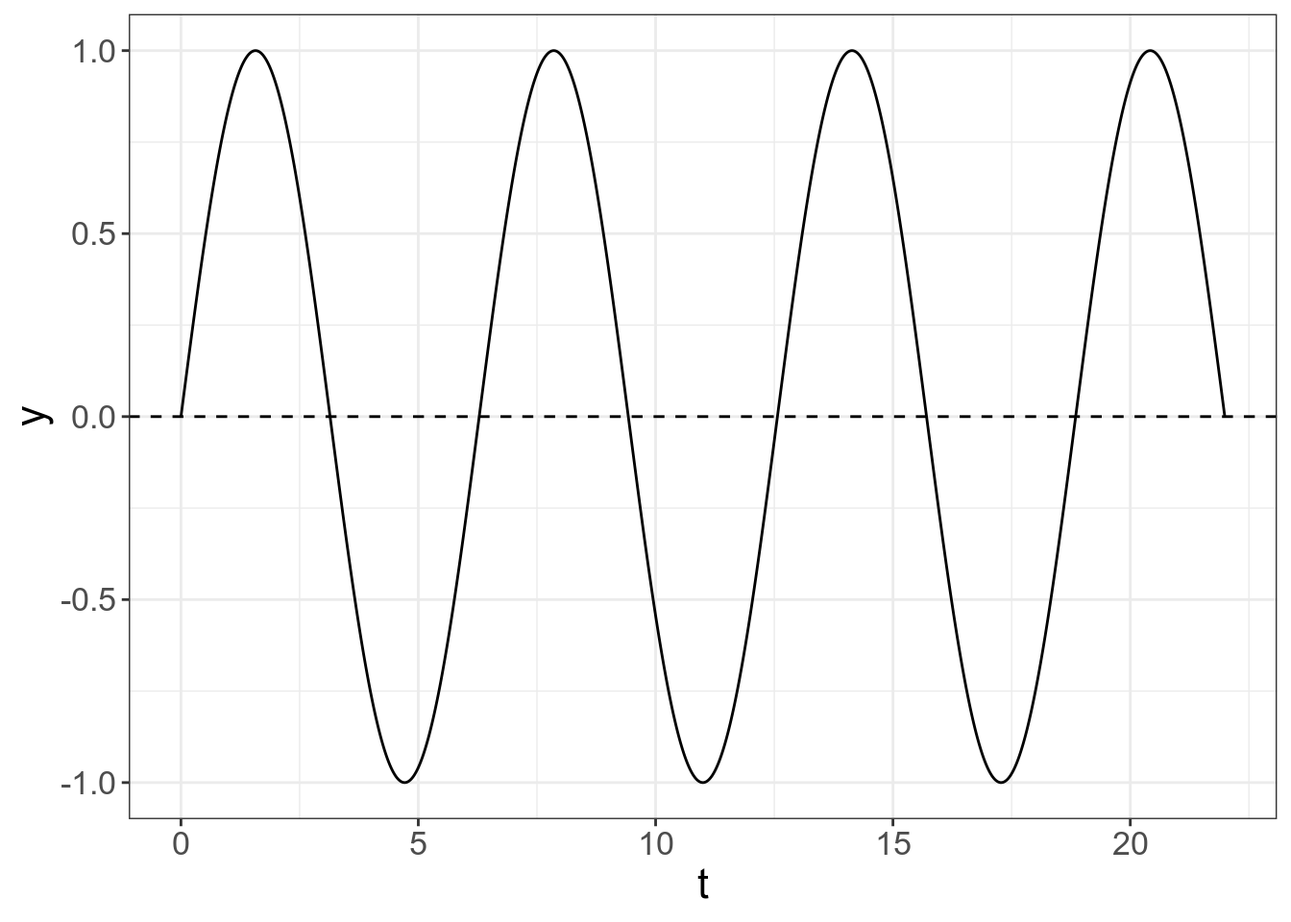
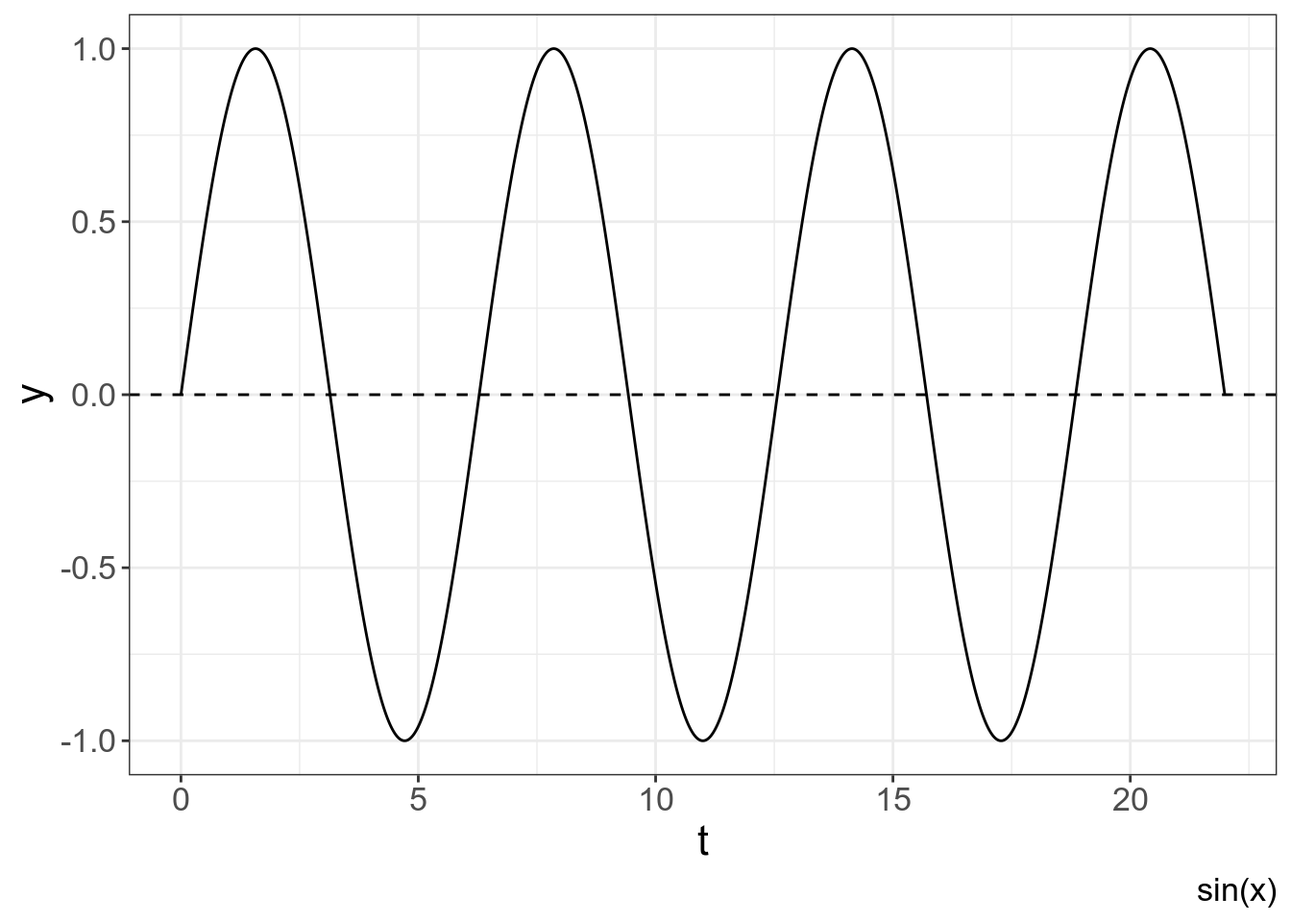
add intro to math

diff --git a/docs/1_math.html b/docs/1_math.html
@@ -535,9 +535,10 @@ div.tocify {
 
 <p>Для тех, кто хочет следить за кодом, вот загруженные библиотеки:</p>
 <div class="sourceCode" id="cb1"><pre class="sourceCode r"><code class="sourceCode r"><span id="cb1-1"><a href="#cb1-1"></a><span class="kw">library</span>(tidyverse)</span>
-<span id="cb1-2"><a href="#cb1-2"></a><span class="co"># это стиль для ggplot (можно игнорировать эту команду)</span></span>
-<span id="cb1-3"><a href="#cb1-3"></a><span class="kw">theme_set</span>(<span class="kw">theme_bw</span>()<span class="op">+</span></span>
-<span id="cb1-4"><a href="#cb1-4"></a><span class="st">            </span><span class="kw">theme</span>(<span class="dt">text =</span> <span class="kw">element_text</span>(<span class="dt">size =</span> <span class="dv">16</span>))) </span></code></pre></div>
+<span id="cb1-2"><a href="#cb1-2"></a><span class="kw">library</span>(gridExtra)</span>
+<span id="cb1-3"><a href="#cb1-3"></a><span class="co"># это стиль для ggplot (можно игнорировать эту команду)</span></span>
+<span id="cb1-4"><a href="#cb1-4"></a><span class="kw">theme_set</span>(<span class="kw">theme_bw</span>()<span class="op">+</span></span>
+<span id="cb1-5"><a href="#cb1-5"></a><span class="st">            </span><span class="kw">theme</span>(<span class="dt">text =</span> <span class="kw">element_text</span>(<span class="dt">size =</span> <span class="dv">16</span>))) </span></code></pre></div>
 <div id="section" class="section level2">
 <h2>1. Гармонические колебания, их представления и их свойства</h2>
 <div id="section-1" class="section level3">
@@ -548,17 +549,19 @@ div.tocify {
 <span id="cb2-2"><a href="#cb2-2"></a>       <span class="dt">y =</span> <span class="kw">sin</span>(t)) <span class="op">%&gt;%</span><span class="st"> </span></span>
 <span id="cb2-3"><a href="#cb2-3"></a><span class="st">  </span><span class="kw">ggplot</span>(<span class="kw">aes</span>(t, y))<span class="op">+</span></span>
 <span id="cb2-4"><a href="#cb2-4"></a><span class="st">  </span><span class="kw">geom_line</span>()<span class="op">+</span></span>
-<span id="cb2-5"><a href="#cb2-5"></a><span class="st">  </span><span class="kw">geom_hline</span>(<span class="dt">yintercept =</span> <span class="dv">0</span>, <span class="dt">linetype =</span> <span class="dv">2</span>)</span></code></pre></div>
+<span id="cb2-5"><a href="#cb2-5"></a><span class="st">  </span><span class="kw">geom_hline</span>(<span class="dt">yintercept =</span> <span class="dv">0</span>, <span class="dt">linetype =</span> <span class="dv">2</span>)<span class="op">+</span></span>
+<span id="cb2-6"><a href="#cb2-6"></a><span class="st">  </span><span class="kw">labs</span>(<span class="dt">caption =</span> <span class="st">&quot;sin(x)&quot;</span>)</span></code></pre></div>
 <p><img src="1_math_files/figure-html/unnamed-chunk-2-1.png" width="672" /></p>
 <blockquote>
 <p>🤔 Почему фрагмент? Потому что идеальное гармоническое колебание не имеет ни начала ни конца. Реальные волны, представленые в мире все <strong>квазипереодические</strong>.</p>
 </blockquote>
 <p>Фрагмента графика другого гармонического коллебания:</p>
 <div class="sourceCode" id="cb3"><pre class="sourceCode r"><code class="sourceCode r"><span id="cb3-1"><a href="#cb3-1"></a><span class="kw">tibble</span>(<span class="dt">t =</span> <span class="kw">seq</span>(<span class="dv">0</span>, <span class="dv">7</span><span class="op">*</span>pi, <span class="dt">by =</span> <span class="fl">0.001</span>),</span>
-<span id="cb3-2"><a href="#cb3-2"></a>       <span class="dt">y =</span> <span class="kw">sin</span>(t)<span class="op">+</span><span class="st"> </span><span class="kw">sin</span>(t)<span class="op">*</span><span class="kw">sin</span>(t)) <span class="op">%&gt;%</span><span class="st"> </span></span>
+<span id="cb3-2"><a href="#cb3-2"></a>       <span class="dt">y =</span> <span class="kw">sin</span>(t)<span class="op">+</span><span class="kw">sin</span>(<span class="dv">2</span><span class="op">*</span>t)) <span class="op">%&gt;%</span><span class="st"> </span></span>
 <span id="cb3-3"><a href="#cb3-3"></a><span class="st">  </span><span class="kw">ggplot</span>(<span class="kw">aes</span>(t, y))<span class="op">+</span></span>
 <span id="cb3-4"><a href="#cb3-4"></a><span class="st">  </span><span class="kw">geom_line</span>()<span class="op">+</span></span>
-<span id="cb3-5"><a href="#cb3-5"></a><span class="st">  </span><span class="kw">geom_hline</span>(<span class="dt">yintercept =</span> <span class="dv">0</span>, <span class="dt">linetype =</span> <span class="dv">2</span>)</span></code></pre></div>
+<span id="cb3-5"><a href="#cb3-5"></a><span class="st">  </span><span class="kw">geom_hline</span>(<span class="dt">yintercept =</span> <span class="dv">0</span>, <span class="dt">linetype =</span> <span class="dv">2</span>)<span class="op">+</span></span>
+<span id="cb3-6"><a href="#cb3-6"></a><span class="st">  </span><span class="kw">labs</span>(<span class="dt">caption =</span> <span class="st">&quot;sin(x)+sin(2*x)&quot;</span>)</span></code></pre></div>
 <p><img src="1_math_files/figure-html/unnamed-chunk-3-1.png" width="672" /></p>
 <p>Периодические колебания обычно имеют некоторую точку равновесия, около которой они колеблются (на графиках обозначена пунктирной линией).</p>
 </div>
@@ -580,7 +583,8 @@ div.tocify {
 <span id="cb4-9"><a href="#cb4-9"></a><span class="st">  </span><span class="kw">annotate</span>(<span class="st">&quot;segment&quot;</span>, <span class="dt">x =</span> <span class="dv">4</span><span class="op">*</span>pi, <span class="dt">xend =</span> <span class="dv">4</span><span class="op">*</span>pi, <span class="dt">y =</span> <span class="dv">0</span>, <span class="dt">yend =</span> <span class="dv">1</span>, <span class="dt">color =</span> <span class="st">&quot;firebrick3&quot;</span>, <span class="dt">size =</span> <span class="dv">2</span>, <span class="dt">arrow =</span> <span class="kw">arrow</span>(<span class="dt">ends =</span> <span class="st">&quot;both&quot;</span>)) <span class="op">+</span></span>
 <span id="cb4-10"><a href="#cb4-10"></a><span class="st">  </span><span class="kw">annotate</span>(<span class="st">&quot;text&quot;</span>, <span class="dt">x =</span> <span class="dv">4</span><span class="op">*</span>pi<span class="fl">+0.6</span>, <span class="dt">y =</span> <span class="fl">0.5</span>, <span class="dt">label =</span> <span class="st">&quot;A&quot;</span>, <span class="dt">size =</span> <span class="dv">8</span>, <span class="dt">color =</span> <span class="st">&quot;firebrick3&quot;</span>) <span class="op">+</span></span>
 <span id="cb4-11"><a href="#cb4-11"></a><span class="st">  </span><span class="kw">annotate</span>(<span class="st">&quot;segment&quot;</span>, <span class="dt">x =</span> <span class="dv">5</span><span class="op">*</span>pi, <span class="dt">xend =</span> <span class="dv">5</span><span class="op">*</span>pi, <span class="dt">y =</span> <span class="dv">0</span>, <span class="dt">yend =</span> <span class="dv">-1</span>, <span class="dt">color =</span> <span class="st">&quot;firebrick3&quot;</span>, <span class="dt">size =</span> <span class="dv">2</span>, <span class="dt">arrow =</span> <span class="kw">arrow</span>(<span class="dt">ends =</span> <span class="st">&quot;both&quot;</span>)) <span class="op">+</span></span>
-<span id="cb4-12"><a href="#cb4-12"></a><span class="st">  </span><span class="kw">annotate</span>(<span class="st">&quot;text&quot;</span>, <span class="dt">x =</span> <span class="dv">5</span><span class="op">*</span>pi<span class="fl">+0.6</span>, <span class="dt">y =</span> <span class="fl">-0.4</span>, <span class="dt">label =</span> <span class="st">&quot;A&quot;</span>, <span class="dt">size =</span> <span class="dv">8</span>, <span class="dt">color =</span> <span class="st">&quot;firebrick3&quot;</span>)</span></code></pre></div>
+<span id="cb4-12"><a href="#cb4-12"></a><span class="st">  </span><span class="kw">annotate</span>(<span class="st">&quot;text&quot;</span>, <span class="dt">x =</span> <span class="dv">5</span><span class="op">*</span>pi<span class="fl">+0.6</span>, <span class="dt">y =</span> <span class="fl">-0.4</span>, <span class="dt">label =</span> <span class="st">&quot;A&quot;</span>, <span class="dt">size =</span> <span class="dv">8</span>, <span class="dt">color =</span> <span class="st">&quot;firebrick3&quot;</span>)<span class="op">+</span></span>
+<span id="cb4-13"><a href="#cb4-13"></a><span class="st">  </span><span class="kw">labs</span>(<span class="dt">caption =</span> <span class="st">&quot;cos(x)&quot;</span>)</span></code></pre></div>
 <p><img src="1_math_files/figure-html/unnamed-chunk-4-1.png" width="672" /></p>
 <ul>
 <li>частота (f) — число периодов за секунду</li>
@@ -590,8 +594,77 @@ div.tocify {
 <ul>
 <li><p>мы воспринимаем изменения в частотах как изменения в “высоте” звука;</p></li>
 <li><p>мы воспринимаем изменения в амплитуде волны как изменения в “громкости” звука.</p></li>
-<li><p>фаза (φ)</p></li>
+<li><p>фаза (φ) — цикл гармонического колебания можно разделить на 360°</p></li>
 </ul>
+<p>Вот так это выглядит в декартовой системе координат:</p>
+<div class="sourceCode" id="cb5"><pre class="sourceCode r"><code class="sourceCode r"><span id="cb5-1"><a href="#cb5-1"></a><span class="kw">tibble</span>(<span class="dt">t =</span> <span class="kw">seq</span>(<span class="dv">0</span>, <span class="dv">2</span><span class="op">*</span>pi, <span class="dt">by =</span> <span class="fl">0.001</span>),</span>
+<span id="cb5-2"><a href="#cb5-2"></a>       <span class="dt">y =</span> <span class="kw">sin</span>(t)) <span class="op">%&gt;%</span><span class="st"> </span></span>
+<span id="cb5-3"><a href="#cb5-3"></a><span class="st">  </span><span class="kw">ggplot</span>(<span class="kw">aes</span>(t, y))<span class="op">+</span></span>
+<span id="cb5-4"><a href="#cb5-4"></a><span class="st">  </span><span class="kw">geom_line</span>()<span class="op">+</span></span>
+<span id="cb5-5"><a href="#cb5-5"></a><span class="st">  </span><span class="kw">geom_hline</span>(<span class="dt">yintercept =</span> <span class="dv">0</span>, <span class="dt">linetype =</span> <span class="dv">2</span>)<span class="op">+</span></span>
+<span id="cb5-6"><a href="#cb5-6"></a><span class="st">  </span><span class="kw">annotate</span>(<span class="st">&quot;point&quot;</span>, <span class="dt">x =</span> <span class="dv">2</span><span class="op">*</span>pi<span class="op">/</span><span class="dv">4</span><span class="op">*</span><span class="dv">0</span><span class="op">:</span><span class="dv">4</span>, <span class="dt">y =</span> <span class="dv">0</span>)<span class="op">+</span></span>
+<span id="cb5-7"><a href="#cb5-7"></a><span class="st">  </span><span class="kw">annotate</span>(<span class="st">&quot;text&quot;</span>, <span class="dt">x =</span> <span class="dv">2</span><span class="op">*</span>pi<span class="op">/</span><span class="dv">4</span><span class="op">*</span><span class="dv">0</span><span class="op">:</span><span class="dv">4</span>, <span class="dt">label =</span> <span class="kw">paste0</span>(<span class="dv">90</span><span class="op">*</span><span class="dv">0</span><span class="op">:</span><span class="dv">4</span>, <span class="st">&quot;°&quot;</span>), <span class="dt">y =</span> <span class="fl">-0.05</span>, <span class="dt">size =</span> <span class="dv">4</span>)<span class="op">+</span></span>
+<span id="cb5-8"><a href="#cb5-8"></a><span class="st">  </span><span class="kw">labs</span>(<span class="dt">caption =</span> <span class="st">&quot;sin(x)&quot;</span>)</span></code></pre></div>
+<p><img src="1_math_files/figure-html/unnamed-chunk-5-1.png" width="672" /></p>
+<p>Вот так это выглядит в полярной системе координат:</p>
+<div class="sourceCode" id="cb6"><pre class="sourceCode r"><code class="sourceCode r"><span id="cb6-1"><a href="#cb6-1"></a><span class="kw">tibble</span>(<span class="dt">t =</span> <span class="kw">seq</span>(<span class="dv">0</span>, <span class="dv">2</span><span class="op">*</span>pi, <span class="dt">by =</span> <span class="fl">0.001</span>),</span>
+<span id="cb6-2"><a href="#cb6-2"></a>       <span class="dt">y =</span> <span class="kw">sin</span>(t)) <span class="op">%&gt;%</span><span class="st"> </span></span>
+<span id="cb6-3"><a href="#cb6-3"></a><span class="st">  </span><span class="kw">ggplot</span>(<span class="kw">aes</span>(t, y))<span class="op">+</span></span>
+<span id="cb6-4"><a href="#cb6-4"></a><span class="st">  </span><span class="kw">geom_line</span>()<span class="op">+</span></span>
+<span id="cb6-5"><a href="#cb6-5"></a><span class="st">  </span><span class="kw">geom_hline</span>(<span class="dt">yintercept =</span> <span class="dv">0</span>, <span class="dt">linetype =</span> <span class="dv">2</span>)<span class="op">+</span></span>
+<span id="cb6-6"><a href="#cb6-6"></a><span class="st">  </span><span class="kw">annotate</span>(<span class="st">&quot;point&quot;</span>, <span class="dt">x =</span> <span class="dv">2</span><span class="op">*</span>pi<span class="op">/</span><span class="dv">4</span><span class="op">*</span><span class="dv">1</span><span class="op">:</span><span class="dv">4</span>, <span class="dt">y =</span> <span class="dv">0</span>)<span class="op">+</span></span>
+<span id="cb6-7"><a href="#cb6-7"></a><span class="st">  </span><span class="kw">annotate</span>(<span class="st">&quot;text&quot;</span>, <span class="dt">x =</span> <span class="dv">2</span><span class="op">*</span>pi<span class="op">/</span><span class="dv">4</span><span class="op">*</span><span class="dv">1</span><span class="op">:</span><span class="dv">4</span>, <span class="dt">label =</span> <span class="kw">paste0</span>(<span class="dv">90</span><span class="op">*</span><span class="dv">1</span><span class="op">:</span><span class="dv">4</span>, <span class="st">&quot;°&quot;</span>), <span class="dt">y =</span> <span class="fl">0.2</span>, <span class="dt">size =</span> <span class="dv">4</span>)<span class="op">+</span></span>
+<span id="cb6-8"><a href="#cb6-8"></a><span class="st">  </span><span class="kw">coord_polar</span>(<span class="dt">start =</span> <span class="op">-</span>pi<span class="op">/</span><span class="dv">2</span>, <span class="dt">direction =</span> <span class="dv">-1</span>)<span class="op">+</span></span>
+<span id="cb6-9"><a href="#cb6-9"></a><span class="st">  </span><span class="kw">labs</span>(<span class="dt">caption =</span> <span class="st">&quot;sin(x)&quot;</span>)</span></code></pre></div>
+<p><img src="1_math_files/figure-html/unnamed-chunk-6-1.png" width="672" /></p>
+<p>Вот пример другой волны:</p>
+<div class="sourceCode" id="cb7"><pre class="sourceCode r"><code class="sourceCode r"><span id="cb7-1"><a href="#cb7-1"></a><span class="kw">tibble</span>(<span class="dt">t =</span> <span class="kw">seq</span>(<span class="dv">0</span>, <span class="dv">2</span><span class="op">*</span>pi, <span class="dt">by =</span> <span class="fl">0.001</span>),</span>
+<span id="cb7-2"><a href="#cb7-2"></a>       <span class="dt">y =</span> <span class="kw">sin</span>(t)<span class="op">+</span><span class="kw">sin</span>(<span class="dv">2</span><span class="op">*</span>t)) <span class="op">%&gt;%</span><span class="st"> </span></span>
+<span id="cb7-3"><a href="#cb7-3"></a><span class="st">  </span><span class="kw">ggplot</span>(<span class="kw">aes</span>(t, y))<span class="op">+</span></span>
+<span id="cb7-4"><a href="#cb7-4"></a><span class="st">  </span><span class="kw">geom_line</span>()<span class="op">+</span></span>
+<span id="cb7-5"><a href="#cb7-5"></a><span class="st">  </span><span class="kw">geom_hline</span>(<span class="dt">yintercept =</span> <span class="dv">0</span>, <span class="dt">linetype =</span> <span class="dv">2</span>)<span class="op">+</span></span>
+<span id="cb7-6"><a href="#cb7-6"></a><span class="st">  </span><span class="kw">annotate</span>(<span class="st">&quot;point&quot;</span>, <span class="dt">x =</span> <span class="dv">2</span><span class="op">*</span>pi<span class="op">/</span><span class="dv">4</span><span class="op">*</span><span class="dv">0</span><span class="op">:</span><span class="dv">4</span>, <span class="dt">y =</span> <span class="dv">0</span>)<span class="op">+</span></span>
+<span id="cb7-7"><a href="#cb7-7"></a><span class="st">  </span><span class="kw">annotate</span>(<span class="st">&quot;text&quot;</span>, <span class="dt">x =</span> <span class="dv">2</span><span class="op">*</span>pi<span class="op">/</span><span class="dv">4</span><span class="op">*</span><span class="dv">0</span><span class="op">:</span><span class="dv">4</span>, <span class="dt">label =</span> <span class="kw">paste0</span>(<span class="dv">90</span><span class="op">*</span><span class="dv">0</span><span class="op">:</span><span class="dv">4</span>, <span class="st">&quot;°&quot;</span>), <span class="dt">y =</span> <span class="kw">c</span>(<span class="op">-</span><span class="fl">0.2</span>, <span class="fl">-0.2</span>, <span class="fl">-0.4</span>, <span class="fl">0.2</span>, <span class="fl">0.2</span>), <span class="dt">size =</span> <span class="dv">4</span>) -&gt;</span>
+<span id="cb7-8"><a href="#cb7-8"></a><span class="st">  </span>p1</span>
+<span id="cb7-9"><a href="#cb7-9"></a></span>
+<span id="cb7-10"><a href="#cb7-10"></a><span class="kw">tibble</span>(<span class="dt">t =</span> <span class="kw">seq</span>(<span class="dv">0</span>, <span class="dv">2</span><span class="op">*</span>pi, <span class="dt">by =</span> <span class="fl">0.001</span>),</span>
+<span id="cb7-11"><a href="#cb7-11"></a>       <span class="dt">y =</span> <span class="kw">sin</span>(t)<span class="op">+</span><span class="kw">sin</span>(<span class="dv">2</span><span class="op">*</span>t)) <span class="op">%&gt;%</span><span class="st"> </span></span>
+<span id="cb7-12"><a href="#cb7-12"></a><span class="st">  </span><span class="kw">ggplot</span>(<span class="kw">aes</span>(t, y))<span class="op">+</span></span>
+<span id="cb7-13"><a href="#cb7-13"></a><span class="st">  </span><span class="kw">geom_line</span>()<span class="op">+</span></span>
+<span id="cb7-14"><a href="#cb7-14"></a><span class="st">  </span><span class="kw">geom_hline</span>(<span class="dt">yintercept =</span> <span class="dv">0</span>, <span class="dt">linetype =</span> <span class="dv">2</span>)<span class="op">+</span></span>
+<span id="cb7-15"><a href="#cb7-15"></a><span class="st">  </span><span class="kw">annotate</span>(<span class="st">&quot;point&quot;</span>, <span class="dt">x =</span> <span class="dv">2</span><span class="op">*</span>pi<span class="op">/</span><span class="dv">4</span><span class="op">*</span><span class="dv">1</span><span class="op">:</span><span class="dv">4</span>, <span class="dt">y =</span> <span class="dv">0</span>)<span class="op">+</span></span>
+<span id="cb7-16"><a href="#cb7-16"></a><span class="st">  </span><span class="kw">annotate</span>(<span class="st">&quot;text&quot;</span>, <span class="dt">x =</span> <span class="dv">2</span><span class="op">*</span>pi<span class="op">/</span><span class="dv">4</span><span class="op">*</span><span class="dv">1</span><span class="op">:</span><span class="dv">4</span>, <span class="dt">label =</span> <span class="kw">paste0</span>(<span class="dv">90</span><span class="op">*</span><span class="dv">1</span><span class="op">:</span><span class="dv">4</span>, <span class="st">&quot;°&quot;</span>), <span class="dt">y =</span> <span class="fl">0.55</span>, <span class="dt">size =</span> <span class="dv">4</span>)<span class="op">+</span></span>
+<span id="cb7-17"><a href="#cb7-17"></a><span class="st">  </span><span class="kw">coord_polar</span>(<span class="dt">start =</span> <span class="op">-</span>pi<span class="op">/</span><span class="dv">2</span>, <span class="dt">direction =</span> <span class="dv">-1</span>)<span class="op">+</span></span>
+<span id="cb7-18"><a href="#cb7-18"></a><span class="st">  </span><span class="kw">labs</span>(<span class="dt">caption =</span> <span class="st">&quot;sin(x)+sin(2x)&quot;</span>) -&gt;</span>
+<span id="cb7-19"><a href="#cb7-19"></a><span class="st">  </span>p2</span>
+<span id="cb7-20"><a href="#cb7-20"></a>gridExtra<span class="op">::</span><span class="kw">grid.arrange</span>(p1, p2, <span class="dt">nrow =</span> <span class="dv">1</span>)</span></code></pre></div>
+<p><img src="1_math_files/figure-html/unnamed-chunk-7-1.png" width="672" /></p>
+<p>А теперь можно убедиться, что косинус и синус это одно и то же, и различаются лишь фазой:</p>
+<div class="sourceCode" id="cb8"><pre class="sourceCode r"><code class="sourceCode r"><span id="cb8-1"><a href="#cb8-1"></a><span class="kw">tibble</span>(<span class="dt">t =</span> <span class="kw">seq</span>(<span class="dv">0</span>, <span class="dv">2</span><span class="op">*</span>pi, <span class="dt">by =</span> <span class="fl">0.001</span>),</span>
+<span id="cb8-2"><a href="#cb8-2"></a>       <span class="dt">sin =</span> <span class="kw">sin</span>(t),</span>
+<span id="cb8-3"><a href="#cb8-3"></a>       <span class="dt">cos =</span> <span class="kw">cos</span>(t)) <span class="op">%&gt;%</span><span class="st"> </span></span>
+<span id="cb8-4"><a href="#cb8-4"></a><span class="st">  </span><span class="kw">gather</span>(type, y, sin<span class="op">:</span>cos) <span class="op">%&gt;%</span><span class="st"> </span></span>
+<span id="cb8-5"><a href="#cb8-5"></a><span class="st">  </span><span class="kw">ggplot</span>(<span class="kw">aes</span>(t, y, <span class="dt">color =</span> type))<span class="op">+</span></span>
+<span id="cb8-6"><a href="#cb8-6"></a><span class="st">  </span><span class="kw">geom_line</span>(<span class="dt">show.legend =</span> <span class="ot">FALSE</span>)<span class="op">+</span></span>
+<span id="cb8-7"><a href="#cb8-7"></a><span class="st">  </span><span class="kw">geom_hline</span>(<span class="dt">yintercept =</span> <span class="dv">0</span>, <span class="dt">linetype =</span> <span class="dv">2</span>)<span class="op">+</span></span>
+<span id="cb8-8"><a href="#cb8-8"></a><span class="st">  </span><span class="kw">annotate</span>(<span class="st">&quot;point&quot;</span>, <span class="dt">x =</span> <span class="dv">2</span><span class="op">*</span>pi<span class="op">/</span><span class="dv">4</span><span class="op">*</span><span class="dv">0</span><span class="op">:</span><span class="dv">4</span>, <span class="dt">y =</span> <span class="dv">0</span>)<span class="op">+</span></span>
+<span id="cb8-9"><a href="#cb8-9"></a><span class="st">  </span><span class="kw">annotate</span>(<span class="st">&quot;text&quot;</span>, <span class="dt">x =</span> <span class="dv">2</span><span class="op">*</span>pi<span class="op">/</span><span class="dv">4</span><span class="op">*</span><span class="dv">0</span><span class="op">:</span><span class="dv">4</span>, <span class="dt">label =</span> <span class="kw">paste0</span>(<span class="dv">90</span><span class="op">*</span><span class="dv">0</span><span class="op">:</span><span class="dv">4</span>, <span class="st">&quot;°&quot;</span>), <span class="dt">y =</span> <span class="fl">-0.1</span>, <span class="dt">size =</span> <span class="dv">4</span>) -&gt;</span>
+<span id="cb8-10"><a href="#cb8-10"></a><span class="st">  </span>p3 </span>
+<span id="cb8-11"><a href="#cb8-11"></a></span>
+<span id="cb8-12"><a href="#cb8-12"></a><span class="kw">tibble</span>(<span class="dt">t =</span> <span class="kw">seq</span>(<span class="dv">0</span>, <span class="dv">2</span><span class="op">*</span>pi, <span class="dt">by =</span> <span class="fl">0.001</span>),</span>
+<span id="cb8-13"><a href="#cb8-13"></a>       <span class="dt">sin =</span> <span class="kw">sin</span>(t),</span>
+<span id="cb8-14"><a href="#cb8-14"></a>       <span class="dt">cos =</span> <span class="kw">cos</span>(t)) <span class="op">%&gt;%</span><span class="st"> </span></span>
+<span id="cb8-15"><a href="#cb8-15"></a><span class="st">  </span><span class="kw">gather</span>(type, y, sin<span class="op">:</span>cos) <span class="op">%&gt;%</span><span class="st"> </span></span>
+<span id="cb8-16"><a href="#cb8-16"></a><span class="st">  </span><span class="kw">ggplot</span>(<span class="kw">aes</span>(t, y, <span class="dt">color =</span> type))<span class="op">+</span></span>
+<span id="cb8-17"><a href="#cb8-17"></a><span class="st">  </span><span class="kw">geom_line</span>()<span class="op">+</span></span>
+<span id="cb8-18"><a href="#cb8-18"></a><span class="st">  </span><span class="kw">geom_hline</span>(<span class="dt">yintercept =</span> <span class="dv">0</span>, <span class="dt">linetype =</span> <span class="dv">2</span>)<span class="op">+</span></span>
+<span id="cb8-19"><a href="#cb8-19"></a><span class="st">  </span><span class="kw">annotate</span>(<span class="st">&quot;point&quot;</span>, <span class="dt">x =</span> <span class="dv">2</span><span class="op">*</span>pi<span class="op">/</span><span class="dv">4</span><span class="op">*</span><span class="dv">1</span><span class="op">:</span><span class="dv">4</span>, <span class="dt">y =</span> <span class="dv">0</span>)<span class="op">+</span></span>
+<span id="cb8-20"><a href="#cb8-20"></a><span class="st">  </span><span class="kw">annotate</span>(<span class="st">&quot;text&quot;</span>, <span class="dt">x =</span> <span class="dv">2</span><span class="op">*</span>pi<span class="op">/</span><span class="dv">4</span><span class="op">*</span><span class="dv">1</span><span class="op">:</span><span class="dv">4</span>, <span class="dt">label =</span> <span class="kw">paste0</span>(<span class="dv">90</span><span class="op">*</span><span class="dv">1</span><span class="op">:</span><span class="dv">4</span>, <span class="st">&quot;°&quot;</span>), <span class="dt">y =</span> <span class="fl">0.55</span>, <span class="dt">size =</span> <span class="dv">4</span>)<span class="op">+</span></span>
+<span id="cb8-21"><a href="#cb8-21"></a><span class="st">  </span><span class="kw">coord_polar</span>(<span class="dt">start =</span> <span class="op">-</span>pi<span class="op">/</span><span class="dv">2</span>, <span class="dt">direction =</span> <span class="dv">-1</span>) <span class="op">+</span></span>
+<span id="cb8-22"><a href="#cb8-22"></a><span class="st">  </span><span class="kw">theme</span>(<span class="dt">legend.position =</span> <span class="st">&quot;top&quot;</span>)-&gt;</span>
+<span id="cb8-23"><a href="#cb8-23"></a><span class="st">  </span>p4</span>
+<span id="cb8-24"><a href="#cb8-24"></a>gridExtra<span class="op">::</span><span class="kw">grid.arrange</span>(p3, p4, <span class="dt">nrow =</span> <span class="dv">1</span>)</span></code></pre></div>
+<p><img src="1_math_files/figure-html/unnamed-chunk-8-1.png" width="672" /></p>
 </div>
 </div>
 <div id="section-3" class="section level2">
